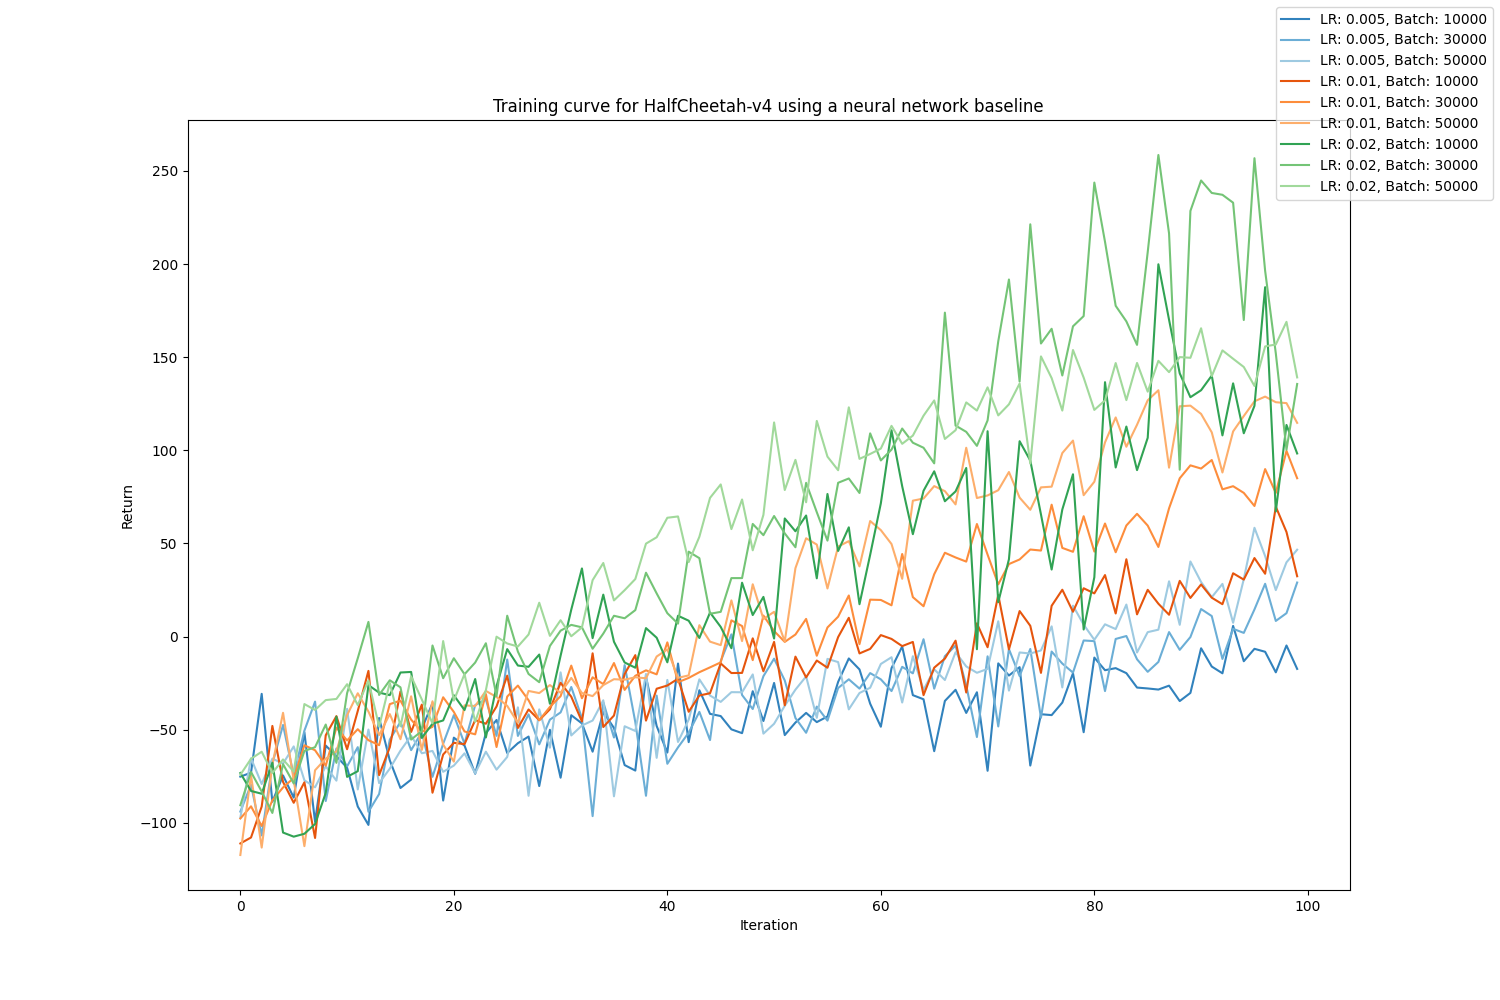
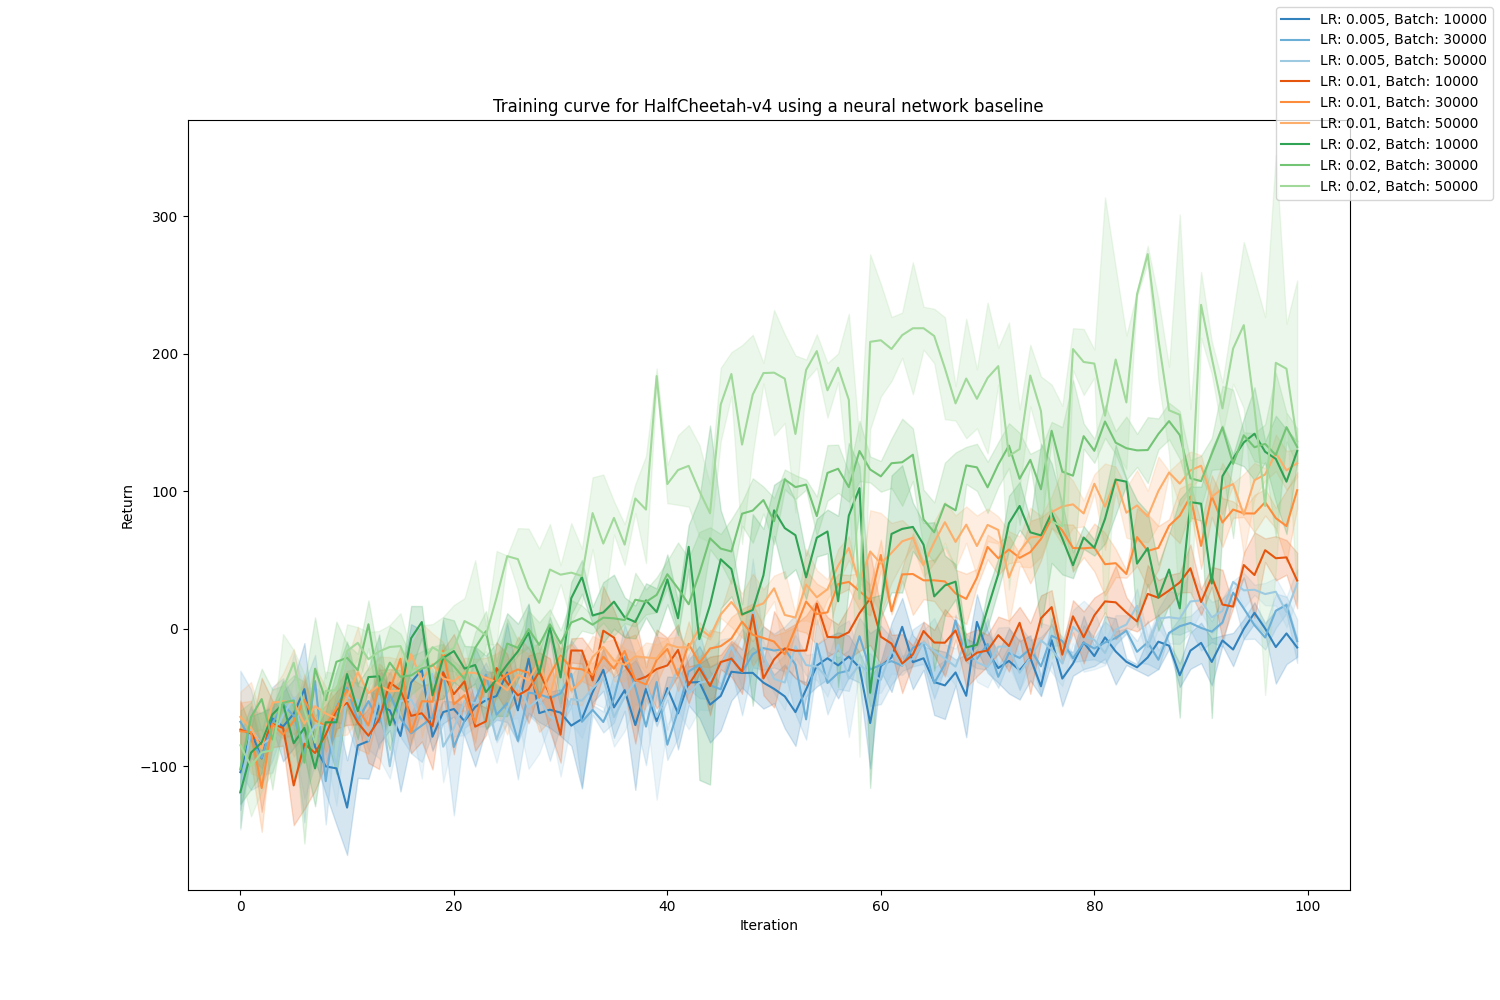
Reran hw2q4 and souped up its scripts

diff --git a/hw2/report/scripts/make_q4_part1_graph.py b/hw2/report/scripts/make_q4_part1_graph.py
@@ -3,6 +3,8 @@ import re
 
 import numpy as np
 
+from scipy.ndimage import gaussian_filter1d
+
 import matplotlib.pyplot as plt
 import matplotlib as mpl
 
@@ -10,13 +12,19 @@ from tensorboard.backend.event_processing.event_accumulator import EventAccumula
 
 SCRIPT_PATH = os.path.realpath(__file__)
 DATA_DIR = os.path.normpath(SCRIPT_PATH + "/../../../data")
-EXPERIMENT_NAME_REGEX = re.compile(r"(q4_lr([0-9.]+)_bs([0-9]+))_HalfCheetah-v4")
+EXPERIMENT_NAME_REGEX = re.compile(
+    r"(q4_search_lr([0-9.]+)_bs([0-9]+))_rtg_nnbaseline_HalfCheetah-v4"
+)
+PLOT_SMOOTHING = 2
 GRAPH_TITLE = "Training curve for HalfCheetah-v4 using a neural network baseline"
+if PLOT_SMOOTHING > 0:
+    GRAPH_TITLE += f" with Gaussian smoothing sigma={PLOT_SMOOTHING}"
 COLOURMAP = "tab20c"
+LIGHT_COLOUR_ALPHA = 0.2
 
 print("Loading log data...")
 
-# A list of elements `(lr, batch_size, Eval_AverageReturn)`
+# A list of elements `(lr, batch_size, avg_return, std_return)`
 experiment_logs = []
 lrs = set()
 batch_sizes = set()
@@ -39,12 +47,17 @@ for filename in os.listdir(DATA_DIR):
     # Load the logs
     event_acc = EventAccumulator(filepath)
     event_acc.Reload()
-    event_list = event_acc.Scalars("Eval_AverageReturn")
-    curve = []
-    for i, event in enumerate(event_list):
-        assert i == event.step
-        curve.append(event.value)
-    experiment_logs.append((lr, batch_size, np.array(curve)))
+    avg_events = event_acc.Scalars("Eval_AverageReturn")
+    std_events = event_acc.Scalars("Eval_StdReturn")
+    avg_return = np.zeros(len(avg_events))
+    std_return = np.zeros(len(std_events))
+    for i, (avg_event, std_event) in enumerate(zip(avg_events, std_events)):
+        assert i == avg_event.step == std_event.step
+        avg_return[i] = avg_event.value
+        std_return[i] = std_event.value
+    experiment_logs.append((lr, batch_size, avg_return, std_return))
+
+print("Processing data...")
 
 # Sort the logs lexicographically
 experiment_logs.sort(key=lambda t: f"{t[0]:.3f}:{t[1]}")
@@ -53,17 +66,29 @@ experiment_logs.sort(key=lambda t: f"{t[0]:.3f}:{t[1]}")
 lrs = sorted(lrs)
 batch_sizes = sorted(batch_sizes)
 
+if PLOT_SMOOTHING > 0:
+    for i, (lr, batch_size, avg_return, std_return) in enumerate(experiment_logs):
+        avg_return = gaussian_filter1d(avg_return, sigma=PLOT_SMOOTHING)
+        std_return = gaussian_filter1d(std_return, sigma=PLOT_SMOOTHING)
+        experiment_logs[i] = (lr, batch_size, avg_return, std_return)
+
 print("Plotting graph...")
 
 cmap = mpl.colormaps[COLOURMAP]
 
 fig, ax = plt.subplots(1, 1, figsize=(15, 10))
 
-for lr, batch_size, avg_return in experiment_logs:
+for lr, batch_size, avg_return, std_return in experiment_logs:
     colour_index = 4 * lrs.index(lr) + batch_sizes.index(batch_size)
     label = f"LR: {lr}, Batch: {batch_size}"
     x_values = np.arange(avg_return.shape[0])
     ax.plot(x_values, avg_return, color=cmap(colour_index), label=label)
+    ax.fill_between(
+        x_values,
+        y1=avg_return - std_return,
+        y2=avg_return + std_return,
+        color=cmap(colour_index, alpha=LIGHT_COLOUR_ALPHA),
+    )
     ax.set(xlabel="Iteration", ylabel="Return", title=GRAPH_TITLE)
 
 fig.legend()

diff --git a/hw2/cs285/scripts/run_hw2_q4.py b/hw2/cs285/scripts/run_hw2_q4.py
@@ -24,7 +24,7 @@ def get_experiment_progress(output_string: str) -> "int | None":
 experiment_commands = []
 parameter_grid = list(itertools.product(LR_VALUES, BATCH_SIZE_VALUES))
 for i, (lr, batch_size) in enumerate(parameter_grid):
-    exp_name = f"q4_lr{lr}_bs{batch_size}"
+    exp_name = f"q4_search_lr{lr}_bs{batch_size}"
     cmd = [
         "python",
         RUN_SCRIPT_PATH,

diff --git a/hw2/report/hw2_report.md b/hw2/report/hw2_report.md
@@ -50,13 +50,17 @@ The following shows the training curve for the `LunarLanderContinuous-v2` enviro
 
 ## Experiment 4
 
-I now try `HalfCheetah-v4` using the neural network baseline and reward-to-go, testing various learning rates and batch sizes.
+I now try `HalfCheetah-v4` using the neural network baseline and reward-to-go, testing various learning rates and batch sizes. The first presents the raw data, the second presents the data smoothed using a Gaussian filter.
 
 | ![Training curve for HalfCheetah-v4 using a neural network baseline and reward-to-go across different learning rates and batch sizes](images/q4_part1.png) |
 |:--:| 
 | *Training curve for HalfCheetah-v4 using a neural network baseline and reward-to-go across different learning rates and batch sizes* |
 
-Higher learning rates consistently yield better results. For the learning rates 0.005 and 0.01 larger batch sizes give better results. For 0.02 however the best batch size is 30000 (though this has higher variance and doesn't perform as well as 50000 initially).
+| ![Training curve for HalfCheetah-v4 using a neural network baseline and reward-to-go across different learning rates and batch sizes, using Gaussian smoothing sigma=2](images/q4_part1_sigma2.png) |
+|:--:| 
+| *Training curve for HalfCheetah-v4 using a neural network baseline and reward-to-go across different learning rates and batch sizes, using Gaussian smoothing sigma=2* |
+
+Higher learning rates and larger batch sizes consistently yield better results, though with higher variances.
 
 
 ## Experiment 5
